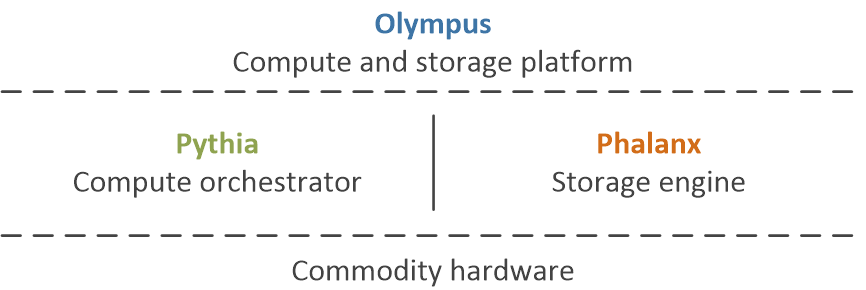
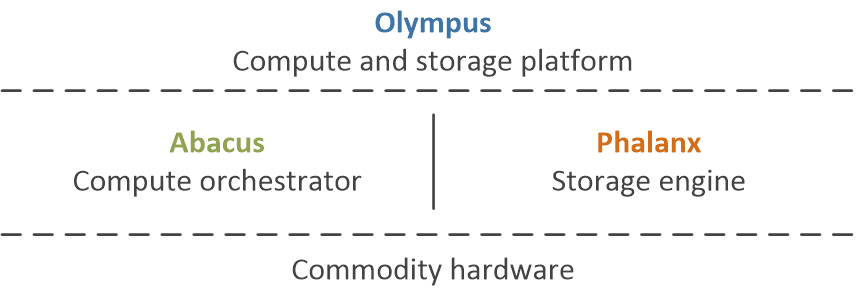
Change from compute component from Pythia to Abacus

diff --git a/_includes/architecture.html b/_includes/architecture.html
@@ -39,7 +39,7 @@
             <div class="col-lg-6 col-md-6 text-left" style="align-self: center; justify-content: center; margin: auto;">
                 <h3>
                     <font class="dark-grey">
-                        Olympus has a modular architecture with two primary components: Pythia (compute) and Phalanx (storage).
+                        Olympus has a modular architecture with two primary components: Abacus (compute) and Phalanx (storage).
                     </font>
                     <font class="mid-grey">
                         Each component can be deployed, scaled and used independently.
